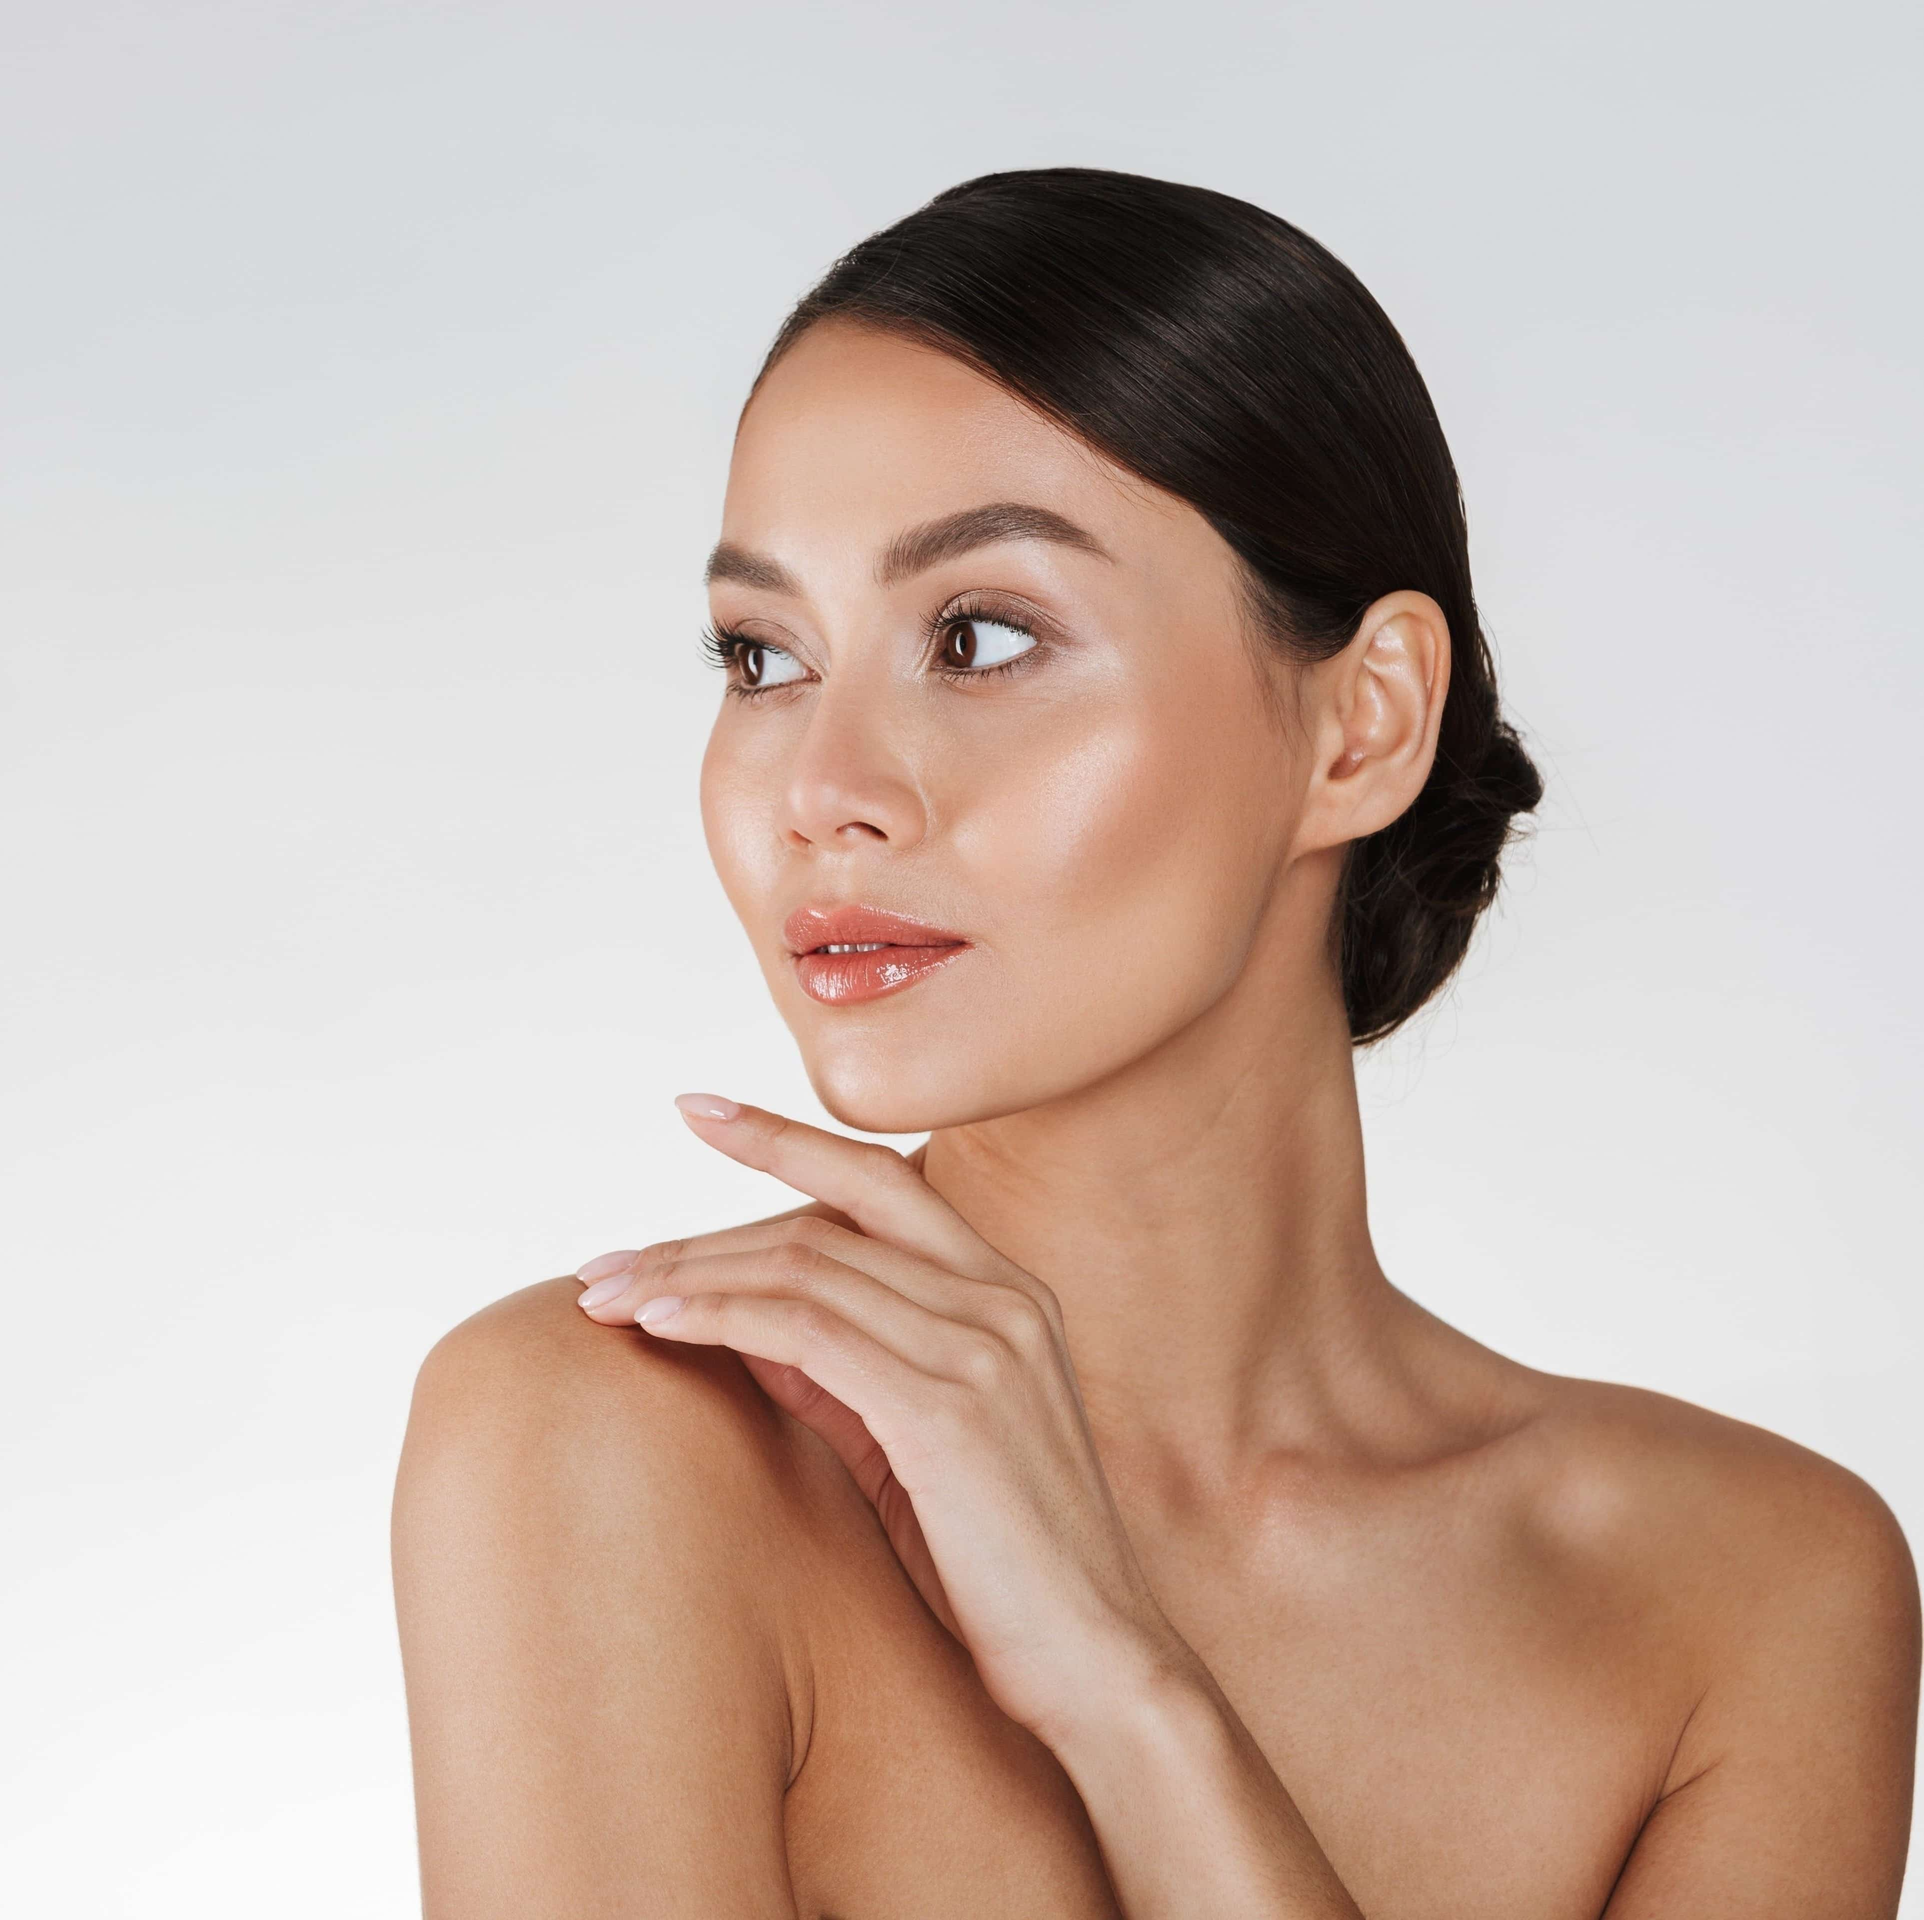
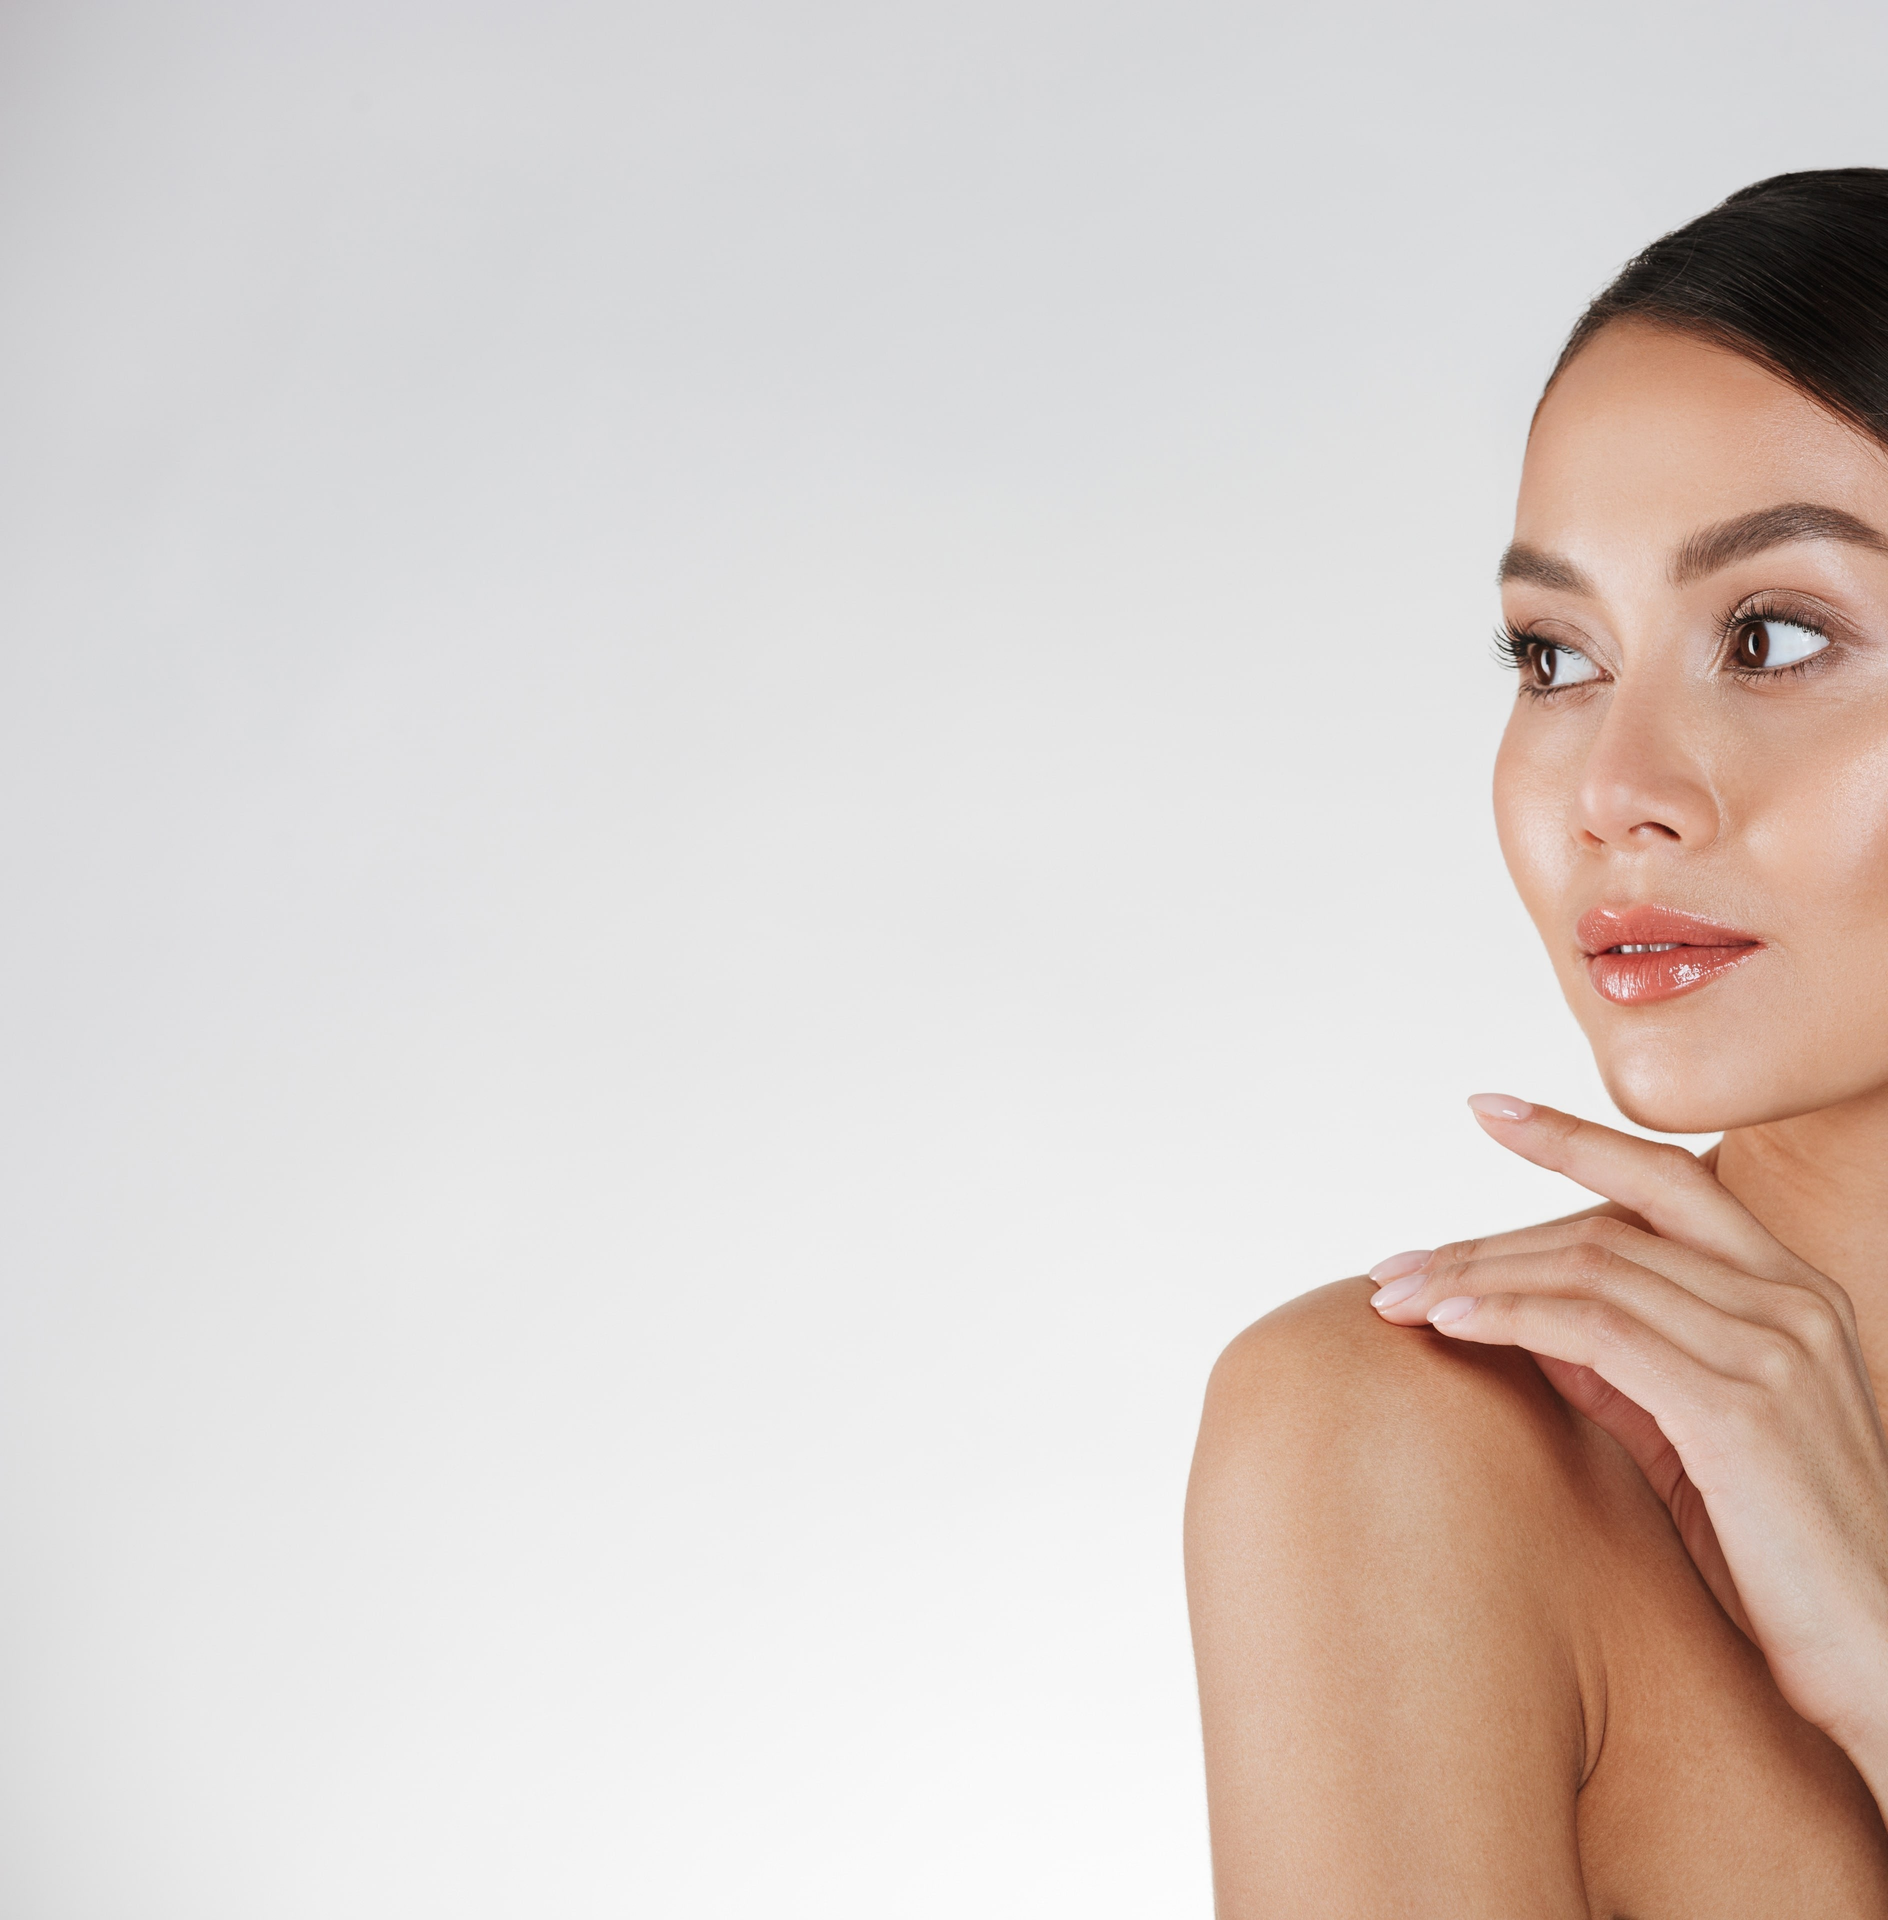
Fixed Hero section background issue on iPhones.

diff --git a/src/components/Hero.jsx b/src/components/Hero.jsx
@@ -4,7 +4,7 @@ import { useNavigate } from "react-router-dom";
 function Hero() {
   const navigate = useNavigate();
   return (
-    <div className="flex min-h-150 items-center justify-center bg-[url(/hero-section-mobile.jpg)] bg-cover bg-fixed md:min-h-screen md:justify-start md:bg-[url(/hero-section-img.jpg)]">
+    <div className="flex min-h-150 items-center justify-center bg-[url(/hero-section-mobile.jpg)] bg-cover bg-fixed bg-right md:min-h-screen md:justify-start md:bg-[url(/hero-section-img.jpg)] md:bg-left-top">
       <div className="mx-auto w-9/10 md:w-8/10">
         <motion.div
           initial={{ y: 40, opacity: 0 }}
